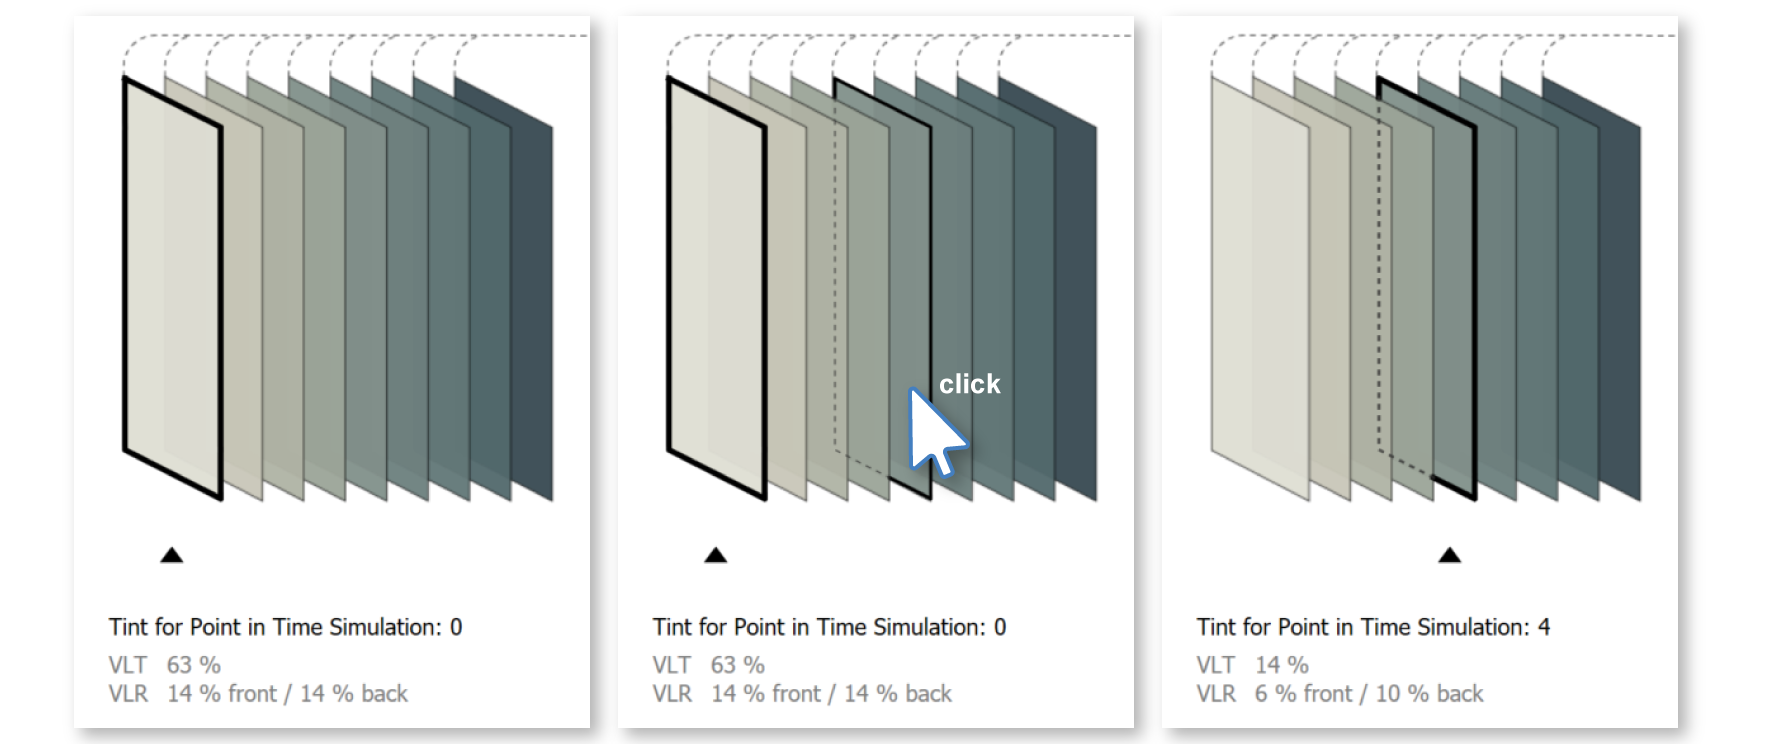
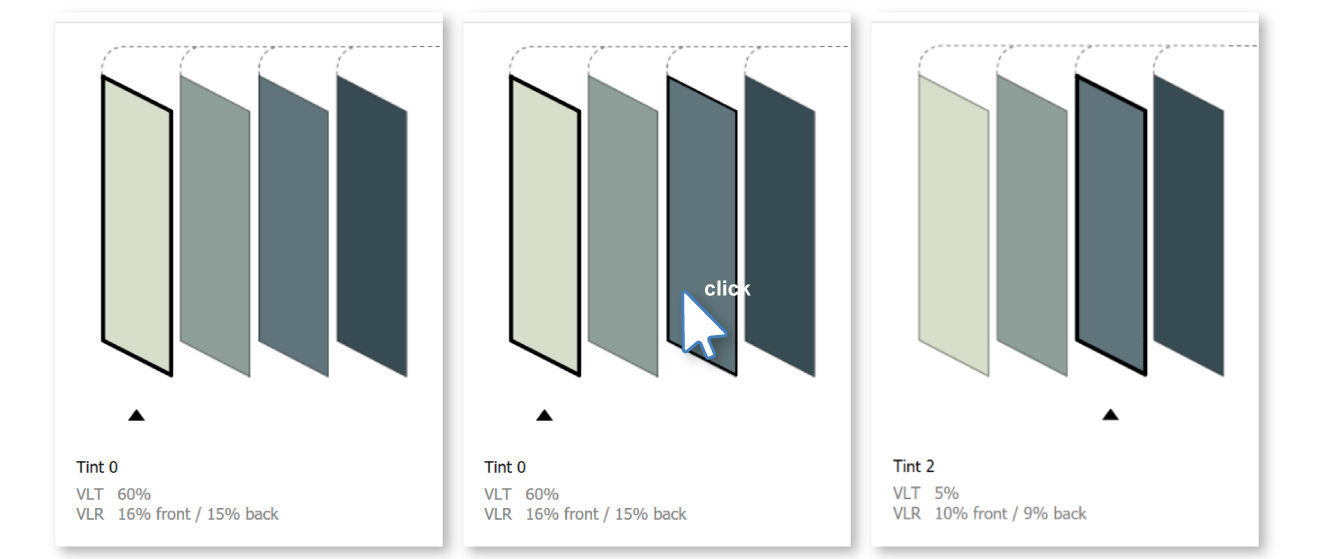
Exterior Glazing (allow NoGlass and Custom Radiance Materials) Documentation update  #28

diff --git a/docs/materials_exteriorGlass.rst b/docs/materials_exteriorGlass.rst
@@ -1,13 +1,16 @@
-Exterior Glass
+Exterior Glass (with optional Dynamic Shade)
 ================================================
 
 Exterior glazing systems consist of three components: 
 
 | **1 -  Glass Material**
-| **2 -  Shade Material**
+| **2 -  Shade Material** (optional)
 | **3 -  Shade Control**
 
-Please note that in the 3D Rhino model, **glazing systems must be modeled as single surfaces**. They should not include multiple surfaces (e.g. multiple glass panes), and they should not contain any solids. The single surface is typically placed at the outside face of glass. When a shade material is specified, ClimateStudio generates shading surfaces automatically -- inset from the glass. This applies to all surfaces on the Rhino layer. The three components of the system may be edited using the corresponding tabs (1-3 below).
+Please note that in the 3D Rhino model, **glazing systems must be modeled as single surfaces**. 
+They should not include multiple surfaces (e.g. multiple glass panes), and they should not contain any solids. 
+The single surface is typically placed at the outside face of glass. When a shade material is specified, ClimateStudio generates shading surfaces automatically -- inset from the glass. 
+This applies to all surfaces on the Rhino layer. The three components of the system may be edited using the corresponding tabs (1-3 below).
 
 .. figure:: images/matBrowser_ex_glass.png
    :width: 900px
@@ -16,24 +19,32 @@ Please note that in the 3D Rhino model, **glazing systems must be modeled as sin
 |
 Glass Material
 ----------------------------------------------------
-Glass materials (typically IGUs) are sourced from the International Glazing Database (IGDB). The default library contains a collection of hundreds of units, spanning a range of performance characteristics. Click on a row in the glazing table to change the selection.
+Glass materials (typically IGUs) are sourced from the International Glazing Database (IGDB). The default library (**5**) contains a collection of hundreds of units, spanning a range of performance characteristics. Click on a row in the glazing table to change the selection or type in the search box (**4**). 
+Switch to user libraries with the **library dropdown (5)**  to use a custom translucent material. 
 
 Shade Material
 ----------------------------------------------------
-Shading systems and their operation are simulated by the `Daylight Availability`_ and `Annual Glare`_ workflows when calculating hourly (il)luminance distributions. In many cases, the inclusion of dynamic shading is not optional. The calculation of Spatial Daylight Autonomy (sDA) and eligibility for the LEED v4 Daylight credit (Option 1) require dynamic shading to be modeled on all exterior windows. 
+Shading systems and their operation are simulated by the `Daylight Availability`_ and `Annual Glare`_ workflows when calculating hourly (il)luminance distributions. 
+In many cases, the inclusion of dynamic shading is not optional. The calculation of Spatial Daylight Autonomy (sDA) and eligibility for the LEED v4 Daylight credit (Option 1) require dynamic shading to be modeled on all exterior windows. 
 
 Open the **Shade Material tab (2)**  to access the shade materials table. Click on a row to change the selection. Windows without shades may be modeled by selecting the "No Shade" option.
+
+Change the **inset from glass (6)** by typing in the text box. 
 
 .. figure:: images/matBrowser_ex_shade.png
    :width: 900px
    :align: center
-
- 
 |
-Shade Control (Point-In-Time Workflows)
+Shade Control
 ----------------------------------------------------
+.. figure:: images/matBrowser_ex_Control.png
+   :width: 900px
+   :align: center
 
-The position of the shade in `point-in-time workflows`_ is displayed and set using the interactive axon diagram. Click on the shade to change its point-in-time state.
+|
+**Point-In-Time Workflows**
+
+The position of the shade in `point-in-time workflows`_ is displayed and set using the interactive axon diagram. Click on the shade to change its point-in-time state or change in the **position dropdown (7)**. 
 
 
 .. figure:: images/matBrowser_ex_click.png
@@ -41,21 +52,20 @@ The position of the shade in `point-in-time workflows`_ is displayed and set usi
    :align: center
 
 |
-Shade Control (Annual Workflows)
-----------------------------------------------------
+**Annual Workflows**
+
 When running `annual workflows`_, the position of each shade changes from timestep to timestep. The logic controlling this behavior is specified in the **Shade Control tab (3)**.
 
-.. figure:: images/matBrowser_ex_Control.png
-   :width: 900px
-   :align: center
 
-There are four **Types of Shade Control (4)**: 
 
-- **Manual** controls mimic the behavior of shades operated by building occupants. ClimateStudio offers two flavors of manual control, available via the **Behavior Model (5)** dropdown:
+
+There are four **Types of Shade Control (8)**: 
+
+- **Manual** controls mimic the behavior of shades operated by building occupants. ClimateStudio offers two flavors of manual control, available via the **Behavior Model (9)** dropdown:
 
     - **LM-83** controls follow the strictures of blind operation according to the IES-NA LM-83 standard. Specifically, blinds close when more than 2% of sensors in a room receive direct sunlight (defined as direct horizontal illuminance in excess of 1000 lux). Blinds reopen immediately once the condition is no longer met. Note that ClimateStudio's engine knows which blinds groups are responsible for transmitting sunlight to a sensor, and closes only responsible groups until the 2% criterion is met. 
 
-    - **Default** controls differ from LM-83 controls in three important respects. First, the trigger is direct *normal* (rather than *horizontal*) illuminance, with an editable threshold defaulting to 2000 lux **(7)**. Second, triggering sensors are limited to portions of the workplane beyond a *permissible depth* from a window. This depth is assessed from room edges adjacent to windows, and can be set via the `occupied area's property panel`_. The default value of 5 feet allows a swath of permissible sun penetration along facade-facing room edges. Any sunlit sensor *not* in this swath will cause the responsible blinds group to close. Finally, unlike the LM-83 model, the default control assumes a *latency period* before the **blinds reopen (6)**. The default reopening occurs the following morning, but the user may specify a longer period of days or weeks.
+    - **Default** controls differ from LM-83 controls in three important respects. First, the trigger is direct *normal* (rather than *horizontal*) illuminance, with an editable threshold defaulting to 2000 lux. Second, triggering sensors are limited to portions of the workplane beyond a *permissible depth* from a window. This depth is assessed from room edges adjacent to windows, and can be set via the `occupied area's property panel`_. The default value of 5 feet allows a swath of permissible sun penetration along facade-facing room edges. Any sunlit sensor *not* in this swath will cause the responsible blinds group to close. Finally, unlike the LM-83 model, the default control assumes a *latency period* before the **blinds reopen (11)**. The default reopening occurs the following morning, but the user may specify a longer period of days or weeks.
  
 
 - **Automated** controls mimic the behavior of motorized blinds driven by daylight sensors. Their logic mirrors that of the Default Manual model above, except without a latency period. I.e., blinds are reopened immediately once the trigger condition is no longer met. 
@@ -65,6 +75,8 @@ There are four **Types of Shade Control (4)**:
 - **Fixed** controls simply set the shade to a fixed position for all hours of the year. The position is assumed to be the point-in-time position, which is set using the interactive axon diagram (see `above`_).
 
 
+|
+|
 Back to `Materials`_.
 
 .. _annual workflows: materials.html#dynamic-materials

diff --git a/docs/materials_exteriorGlassDynamic.rst b/docs/materials_exteriorGlassDynamic.rst
@@ -1,12 +1,15 @@
-Exterior Glass (Dynamic)
+Exterior Glass (Electrochromic)
 ================================================
 
-Dynamic glazing systems consist of two components: 
+Electrochromic glazing systems consist of two components: 
 
-| **1 -  Dynamic Glass System**
+| **1 -  Electrochromic Glass System**
 | **2 -  Tint Control**
 
-Please note that in the 3D Rhino model, **glazing systems must be modeled as single surfaces**. They should not include multiple surfaces (e.g. multiple glass panes), and they should not contain any solids. The single surface is typically placed at the outside face of glass. The two components of the system may be edited using the corresponding tabs (1-2 below).
+Please note that in the 3D Rhino model, **glazing systems must be modeled as single surfaces**. 
+They should not include multiple surfaces (e.g. multiple glass panes), and they should not contain any solids. 
+The single surface is typically placed at the outside face of glass. 
+The two components of the system may be edited using the corresponding tabs (**1-2** below).
 
 
 
@@ -14,32 +17,43 @@ Please note that in the 3D Rhino model, **glazing systems must be modeled as sin
    :width: 900px
    :align: center
    
-|
-Dynamic Glass System
-----------------------------------------------------
-Dynamic glass systems are switchable electrochromic glazing products that change tint to control glare while maintaining views to the outside. Click on a row in the table to select a product.
 
-Tint Control (Point-in-Time Workflows)
+   
+|
+Electrochromic Glass System
 ----------------------------------------------------
-The tint state in `point-in-time workflows`_ is shown in the axon diagram, with a black outline and arrow pointing to the selected tint. Click on another tint to change the point-in-time state. 
+Electrochromic glass systems are switchable electrochromic glazing products that change tint to control glare while maintaining views to the outside. Click on a row in the table to select a product.
+
+|
+Tint Control
+----------------------------------------------------
+.. figure:: images/matBrowser_dy_control.png
+   :width: 900px
+   :align: center
+   
+|
+**Point-in-Time Workflows**
+
+The tint state in `point-in-time workflows`_ is shown in the axon diagram, with a black outline and arrow pointing to the selected tint. Click on another tint to change the point-in-time state or use the **tint (3)** dropdown. 
 
 .. figure:: images/matBrowser_dy_click.png
    :width: 600px
    :align: center
 
 |
-Tint Control (Annual Workflows)
-----------------------------------------------------
+**Annual Workflows**
+
 When running `annual workflows`_, the tint state changes from timestep to timestep. The logic controlling this behavior is specified in the **Tint Control tab (2)**.
+ 
 
 
 There are four **Types of Tint Control (3)**: 
 
-- **Manual** controls mimic the behavior of dynamic glazings operated by building occupants using manual switches. Note that, apart from override features, dynamic glazing systems are typically automated, making manual control an atypical selection. ClimateStudio offers two flavors of manual control, available via the **Behavior Model** dropdown:
+- **Manual** controls mimic the behavior of dynamic glazings operated by building occupants using manual switches. Note that, apart from override features, dynamic glazing systems are typically automated, making manual control an atypical selection. ClimateStudio offers two flavors of manual control, available via the **Behavior Model (4)** dropdown:
 
     - **LM-83** controls follow the strictures of dynamic glazing operation according to the IES-NA LM-83 standard. Specifically, dynamic glazings darken when more than 2% of sensors in a room receive direct sunlight (defined as direct horizontal illuminance in excess of 1000 lux). The tint selected is always the lightest one that brings DHI below the threshold. Tints lighten again the instance conditions allow. Note that ClimateStudio's engine knows which window groups are responsible for transmitting sunlight to a sensor, and darkens only responsible groups until the 2% criterion is met. 
 
-    - **Default** controls differ from LM-83 controls in three important respects. First, the trigger is direct *normal* (rather than *horizontal*) illuminance, with an editable threshold defaulting to 2000 lux **(4)**. Second, triggering sensors are limited to portions of the workplane beyond a *permissible depth* from a window. This depth is assessed from room edges adjacent to windows, and can be set via the `occupied area's property panel`_. The default value of 5 feet allows a swath of permissible sun penetration along facade-facing room edges. Any sunlit sensor *not* in this swath will cause the responsible window group to darken. Finally, unlike the LM-83 model, the default control assumes a *latency period* before the glass can lighten again. The default reset occurs the following morning, but the user may specify a longer period of days or weeks.
+    - **Default** controls differ from LM-83 controls in three important respects. First, the trigger is direct *normal* (rather than *horizontal*) illuminance, with an editable threshold defaulting to 2000 lux **(5)**. Second, triggering sensors are limited to portions of the workplane beyond a *permissible depth* from a window. This depth is assessed from room edges adjacent to windows, and can be set via the `occupied area's property panel`_. The default value of 5 feet allows a swath of permissible sun penetration along facade-facing room edges. Any sunlit sensor *not* in this swath will cause the responsible window group to darken. Finally, unlike the LM-83 model, the default control assumes a *latency period* before the glass can lighten again. The default reset occurs the following morning, but the user may specify a longer period of days or weeks.
  
 
 - **Automated** controls mimic the behavior of switchable glazings driven by daylight sensors. Their logic mirrors that of the Default Manual model above, except without a latency period. I.e., the glass tint is lightened immediately once conditions allow.

diff --git a/docs/materials_scheduledMaterial.rst b/docs/materials_scheduledMaterial.rst
@@ -7,13 +7,18 @@ Scheduled materials are materials that appear or disappear based on an annual sc
    :width: 900px
    :align: center
 
-To select a base material, use the **"Material" tab (1)** and select an item in the table.
+|
+Material
+----------------------
+To select a material, use the **"Material" tab (1)** and select an item in the table from the **default library (4)** or form a **user library (4)**. 
 
-To select a schedule, use the **"Dynamic Behavior" tab (2)** and browse for a schedule using the **Schedule button (4)**, which opens a `schedule editor`_.
+Dynamic Behavior
+-----------------------
+To select a schedule, use the **"Dynamic Behavior" tab (2)** and browse for a schedule using the **Schedule button (6)**, which opens a `schedule editor`_.
 
 The preview shows an hourly map of the material's schedule, with days of the year on the x-axis and hours of the day on the y-axis. The color of the graph is based on the material's reflection color, while the transparency represents its presence (or lack thereof) according to the schedule. If a `point-in-time workflow`_ is selected, the arrow on the x-axis and the box highlighting the hour indicates the **point-in-time state** used by the simulation. This depends on the date and time in the `Sky`_ sub-panel. `Annual workflows`_ use the schedule to set the behavior of the material at each hourly timestep. 
 
-When the schedule's value is 0, the material is absent. When the schedule's value is 1, and material is present. Fractional values between 0 and 1 are interpreted according to the **Transparency Type (3)** dropdown: 
+When the schedule's value is 0, the material is absent. When the schedule's value is 1, and material is present. Fractional values between 0 and 1 are interpreted according to the **Transparency Type (5)** dropdown: 
 
   - **Alpha Transparency** uses the fraction as the material's alpha channel, with 0 being fully transparent and 1 fully opaque. 
 

diff --git a/docs/materials.rst b/docs/materials.rst
@@ -21,7 +21,7 @@ The library is divided into nine material categories:
 
 - Opaque
 - `Exterior Glass (with optional Dynamic Blinds)`_
-- `Exterior Glass (Dynamic)`_
+- `Exterior Glass (Electrochromic)`_
 - `Exterior Glass (Translucent Insulating)`_
 - `Interior Glass`_
 - `Dynamic Leaf`_
@@ -31,7 +31,7 @@ The library is divided into nine material categories:
 
 .. _Exterior Glass (with optional Dynamic Blinds): materials_exteriorGlass.html
 .. _Exterior Glass Shades: materials_exteriorGlass.html#shades-control-point-in-time-workflows
-.. _Exterior Glass (Dynamic): materials_exteriorGlassDynamic.html
+.. _Exterior Glass (Electrochromic): materials_exteriorGlassDynamic.html
 .. _Exterior Glass (Translucent Insulating): materials_exteriorGlassTranslucent.html
 .. _Interior Glass: materials_interiorGlass.html
 .. _Dynamic Leaf: materials_dynamicLeaf.html
